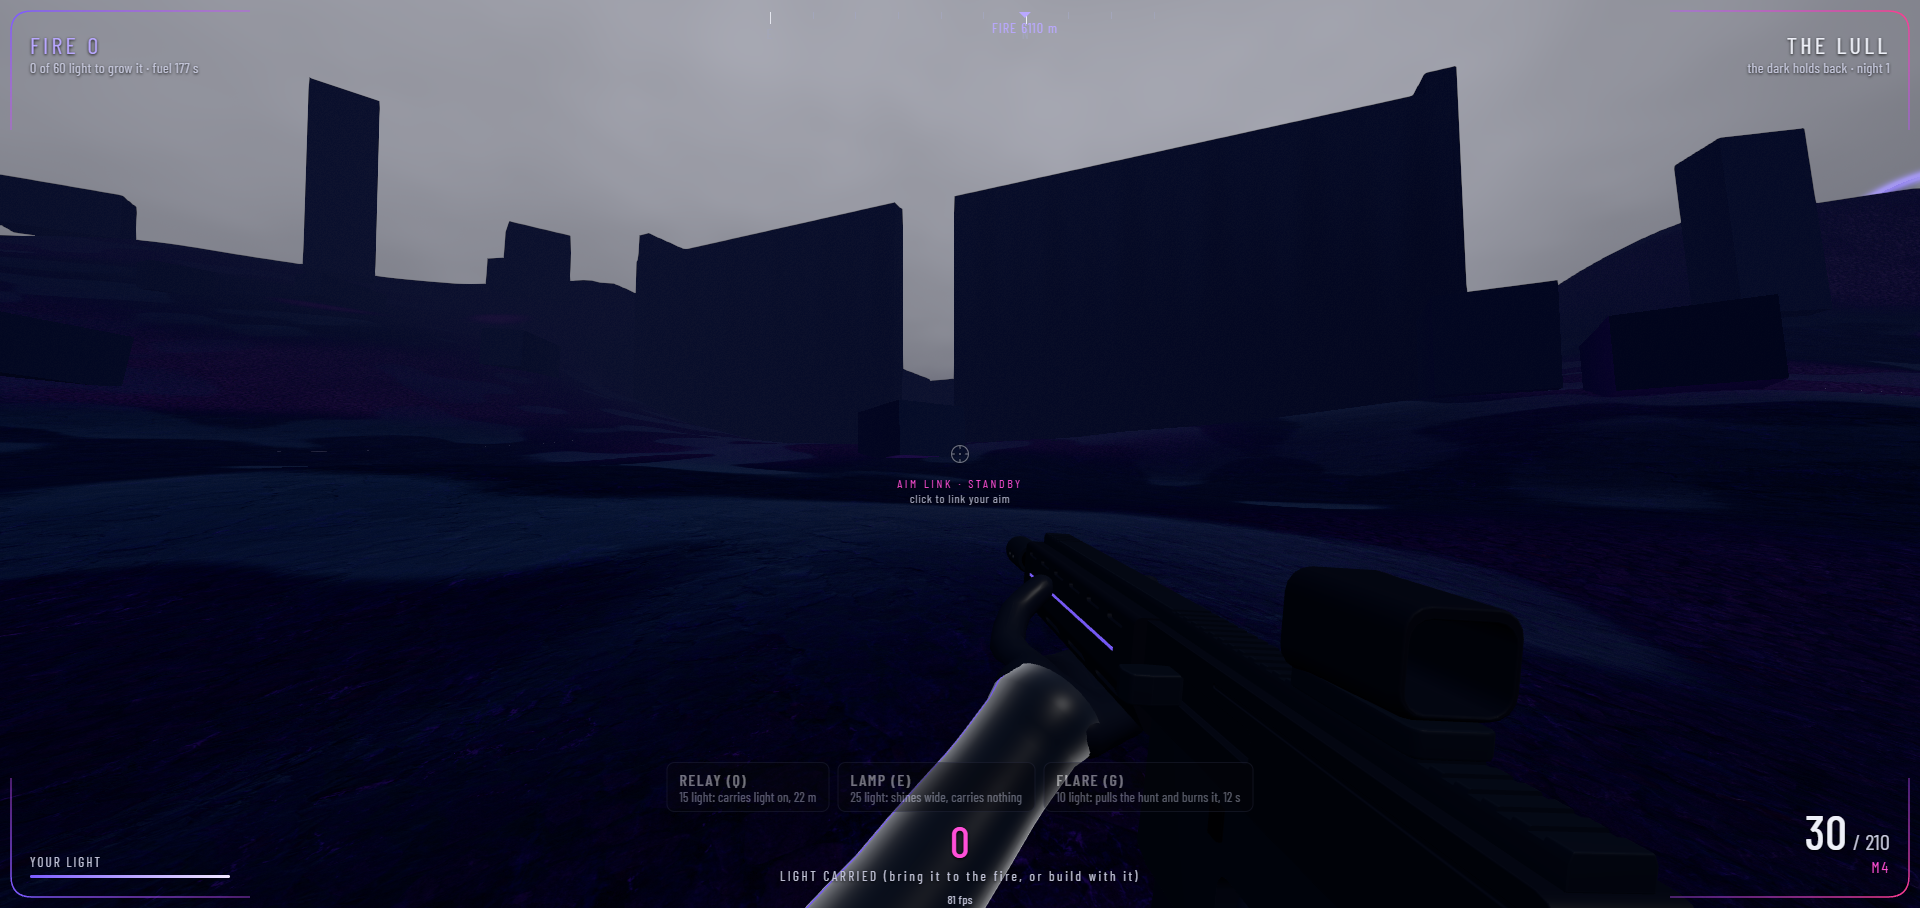
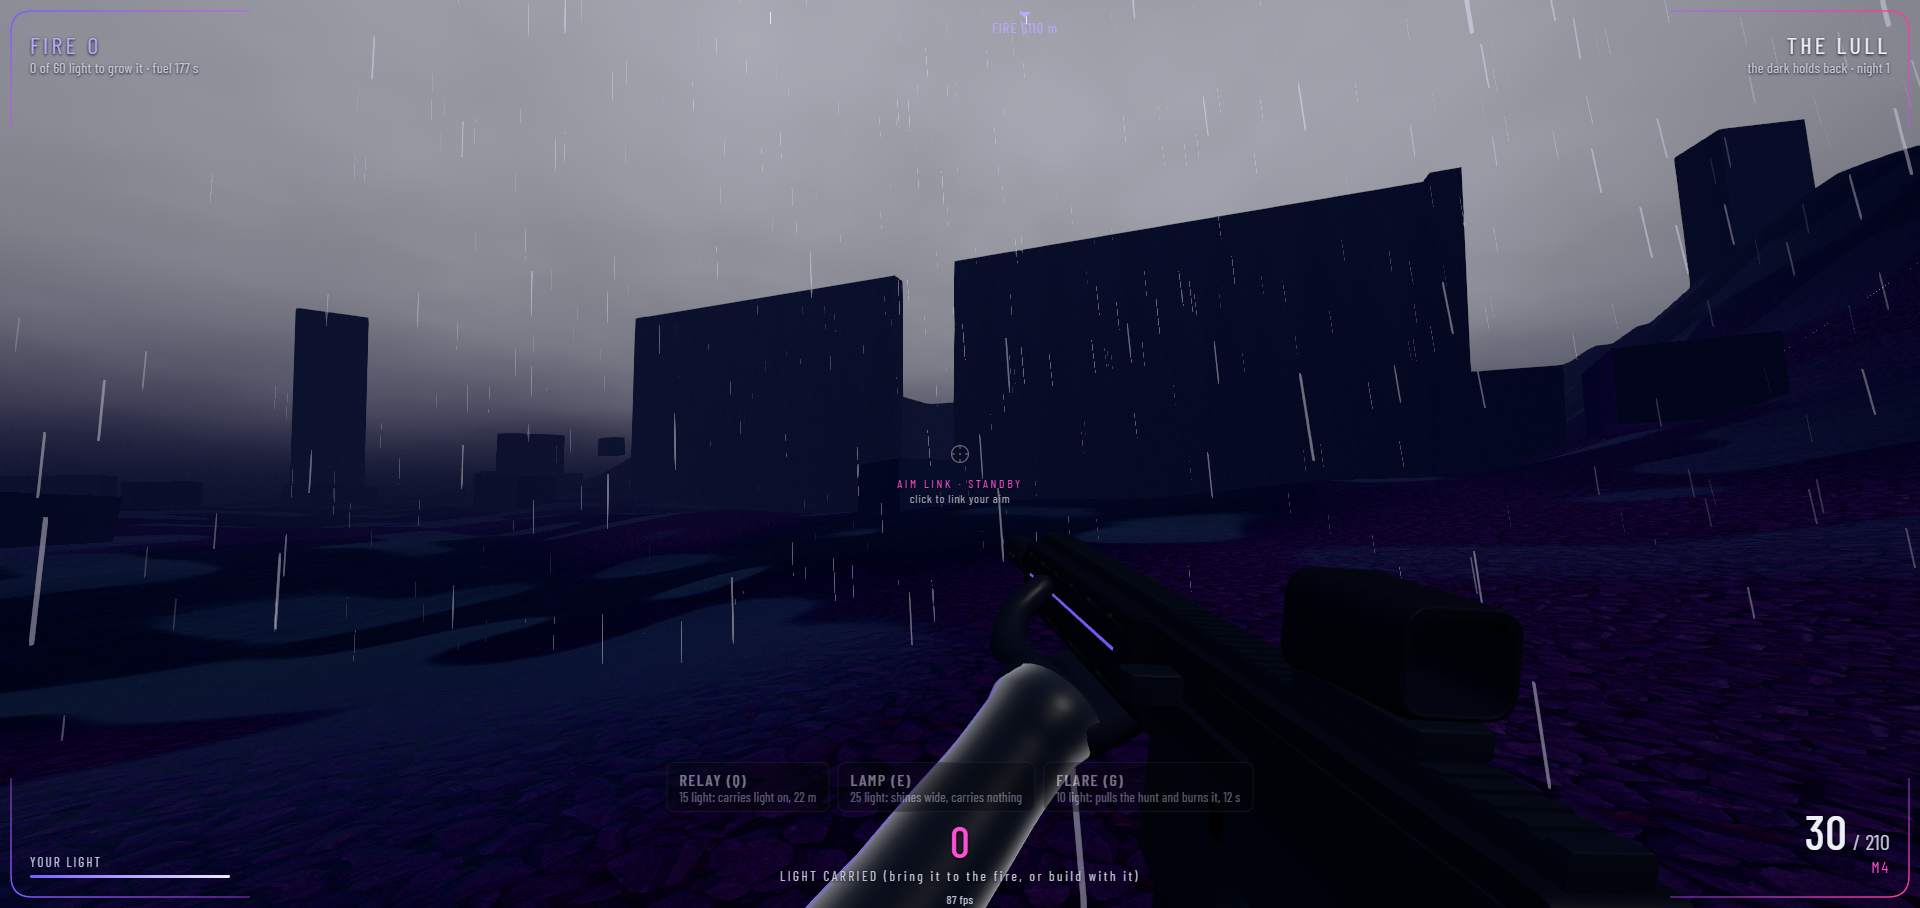
v162: Earth rain (instanced streaks moved in the vertex shader, wind slant, intensity drifts); 87 fps at 1920x908 headless, same as before

diff --git a/next/client/main.js b/next/client/main.js
@@ -1,37 +1,38 @@
 // Last Fire (the new foundation), piece 1: drawing, sound and input around the rules in core/game.js.
 // The rules run here as host; nothing in this file decides what happens, only what you see, hear and send in.
 import * as THREE from 'three';
-import * as C from '../core/game.js?v=161';
-import { Ambience } from './ambience.js?v=161';
-import { Camp, BOARD } from './camp.js?v=161';
-import { Guide } from './guide.js?v=161';
-import { buildSites } from './earthsite.js?v=161';
-import { Truck } from './truck.js?v=161';
-import { ShipView } from './shipview.js?v=161';
-import { Crew } from './crew.js?v=161';
-import { Hands } from './hands.js?v=161';
-import { FpRig } from './fprig.js?v=161';
-import { farStep } from './farsound.js?v=161';
-import { Wrist } from './wrist.js?v=161';
-import { FireCore } from './firecore.js?v=161';
+import * as C from '../core/game.js?v=162';
+import { Ambience } from './ambience.js?v=162';
+import { Camp, BOARD } from './camp.js?v=162';
+import { Guide } from './guide.js?v=162';
+import { buildSites } from './earthsite.js?v=162';
+import { Truck } from './truck.js?v=162';
+import { ShipView } from './shipview.js?v=162';
+import { Crew } from './crew.js?v=162';
+import { Hands } from './hands.js?v=162';
+import { FpRig } from './fprig.js?v=162';
+import { farStep } from './farsound.js?v=162';
+import { Wrist } from './wrist.js?v=162';
+import { FireCore } from './firecore.js?v=162';
 import { EffectComposer } from '../../vendor/jsm/postprocessing/EffectComposer.js';
 import { RenderPass } from '../../vendor/jsm/postprocessing/RenderPass.js';
 import { UnrealBloomPass } from '../../vendor/jsm/postprocessing/UnrealBloomPass.js';
 import { OutputPass } from '../../vendor/jsm/postprocessing/OutputPass.js';
 import { ShaderPass } from '../../vendor/jsm/postprocessing/ShaderPass.js';
-import { think as friendThink } from './friend.js?v=161';
-import { FriendVoice } from './friendvoice.js?v=161';
-import { crewFrom } from '../core/habits.js?v=161';
-import { HudLook } from './hudlook.js?v=161';
-import { applyLook } from './looks.js?v=161';
-import { Net, roomCode, cleanCode, CODE_LEN, MAX_PLAYERS } from './net.js?v=161';
-import { sound, GUNS } from '../../src/combat.js?v=161';
-import { FX } from '../../src/fx.js?v=161';
+import { think as friendThink } from './friend.js?v=162';
+import { FriendVoice } from './friendvoice.js?v=162';
+import { crewFrom } from '../core/habits.js?v=162';
+import { HudLook } from './hudlook.js?v=162';
+import { Rain } from './rain.js?v=162';
+import { applyLook } from './looks.js?v=162';
+import { Net, roomCode, cleanCode, CODE_LEN, MAX_PLAYERS } from './net.js?v=162';
+import { sound, GUNS } from '../../src/combat.js?v=162';
+import { FX } from '../../src/fx.js?v=162';
 import { GLTFLoader } from '../../vendor/jsm/loaders/GLTFLoader.js';
 import { clone as skClone } from '../../vendor/jsm/utils/SkeletonUtils.js';
 
 const $ = id => document.getElementById(id);
-const BUILD = 161;   // (this copy's version; ./version.json says the newest)
+const BUILD = 162;   // (this copy's version; ./version.json says the newest)
 const DEFAULTS = { sens: 1, vol: 0.8, fov: 78, adsSens: 0.65, aimToggle: true, sprintToggle: false, invertY: false, autoReload: true, cross: true };   // (his quality of life ask, 2026-10-19: aim is a toggle by default, and every one of these is a click in the pause menu)
 const SET = Object.assign({ ...DEFAULTS, name: '' }, (() => { try { return JSON.parse(localStorage.getItem('lastfire2') || '{}'); } catch (e) { return {}; } })());
 const save = () => { try { localStorage.setItem('lastfire2', JSON.stringify(SET)); } catch (e) {} };
@@ -60,7 +61,7 @@ const grade = new ShaderPass({ uniforms: { tDiffuse: { value: null }, uT: { valu
 composer.addPass(grade); composer.addPass(new OutputPass());
 const softDot = (() => { const c = document.createElement('canvas'); c.width = c.height = 64; const x = c.getContext('2d'), gr = x.createRadialGradient(32, 32, 0, 32, 32, 32); gr.addColorStop(0, 'rgba(255,255,255,1)'); gr.addColorStop(0.35, 'rgba(255,255,255,0.55)'); gr.addColorStop(1, 'rgba(255,255,255,0)'); x.fillStyle = gr; x.fillRect(0, 0, 64, 64); const t = new THREE.CanvasTexture(c); return t; })();   // (round, soft points: embers and motes were square specks)
 scene.fog = new THREE.FogExp2(0x04060c, 0.016); scene.background = new THREE.Color(0x02030a);
-const hemi = new THREE.HemisphereLight(0x5a6fb0, 0x020306, 0.09); scene.add(hemi); const FOG_NIGHT = new THREE.Color(0x04060c), FOG_EARTH_DAY = new THREE.Color(0x30333b);   // (barely any moonlight: the dark is dark, the light is yours)
+const rain = new Rain(scene); const hemi = new THREE.HemisphereLight(0x5a6fb0, 0x020306, 0.09); scene.add(hemi); const FOG_NIGHT = new THREE.Color(0x04060c), FOG_EARTH_DAY = new THREE.Color(0x30333b);   // (barely any moonlight: the dark is dark, the light is yours)
 // the sky's logic, given to everything (his rule: the sky is the reference for pretty). Research: small bright accents read on large dark
 // fields, saturation shows in the dark (Hunt 2001), rim light separates a form from a dark background. So objects stay dark and get a thin
 // violet edge, taken from the sky's own violet, fading past 60 m; the ground gets rare mineral glints, stars underfoot.
@@ -628,7 +629,7 @@ function frame(now) {
     if (e[1] === 'goes' || e[1] === 'returned' || e[1] === 'lost') { const who = String(e[2] || ''), Who = who[0] ? who[0].toUpperCase() + who.slice(1) : who;   // (the Clerk's paperwork on people who go out: dry, true, filed)
       say(e[1] === 'goes' ? `${Who} went out this morning. Form 7-B filed. Expected back tomorrow, per the form.` : e[1] === 'returned' ? `${Who} is back. The form was right, for once.` : `${Who} did not come back. Form 9-C, in triplicate. The council calls it a reassignment.`, 7); } if (e[2] === me.id && (e[1] === 'rise' || e[1] === 'stranded' || (e[1] === 'fall' && C.onEarth(me)))) settleStake(e[1] === 'rise'); if (e[1] === 'flood' && Number.isFinite(e[2])) { const x = Math.cos(e[2]), z = Math.sin(e[2]), h = ((Math.atan2(-x, -z) + Math.PI * 2) % (Math.PI * 2)) / (Math.PI * 2), dir = ['north', 'north-east', 'east', 'south-east', 'south', 'south-west', 'west', 'north-west'][Math.round(h * 8) % 8]; say(`The dark is pooling to the ${dir}, where your light is thinnest. It will pour in there.`, 5); } if (e[1] === 'bank') { sound.drop(); say(`+${Math.floor(e[3])} light to the fire.`, 2); } if (e[1] === 'level') { growFire(); sound.roundEnd(); say(`The fire grows to level ${e[2]}. Tonight the dark will answer.`, 5); } if (e[1] === 'dusk' && isHost()) duskSnap = JSON.stringify(C.saveWorld(g)); if (e[1] === 'dusk') { sound.round(); say(e[3] ? 'It stirs. The fire\'s growth woke something.' : 'It stirs.', 4); } if (e[1] === 'broke') say(`A ${e[2]} was torn down. The light past it went dark.`, 4); if (e[1] === 'allfell') say(`${lastFall ? lastFall + ' ' : ''}Everyone fell. The fire took you back; the light you carried is out there where you dropped it.`, 7); }
   drawHollow(wdt); drawGrowRing(dt); drawBreach(dt); hitStop = Math.max(0, hitStop - dt); drawBurns(dt); drawTraces(); drawFlares(); drawNetwork(now / 1000); drawMotes(); drawMarks(); fx.update(wdt); sky.material.uniforms.uT.value = now / 1000; grade.uniforms.uT.value = now / 1000; { const e = C.onEarth(me) ? 1 : 0, c = g.clock, day = e ? (c < C.DUSK_AT ? 1 : c < C.NIGHT_AT ? 1 - (c - C.DUSK_AT) / (C.NIGHT_AT - C.DUSK_AT) : c < C.DAWN_AT ? 0 : (c - C.DAWN_AT) / (1 - C.DAWN_AT)) : 0;   /* (Earth has a real day and night, his ask 2026-10-19: overcast gray by day, the stars by night; the Moon has no air, so its sky stays black) */
-    sky.position.copy(camera.position); sky.material.uniforms.uEarth.value = e; sky.material.uniforms.uDay.value = day;   /* (the dome follows you: it sat at the Moon camp, so on Earth, 6 km away, there was no sky at all, only black) */ scene.fog.color.copy(FOG_NIGHT).lerp(FOG_EARTH_DAY, day); hemi.intensity = 0.09 + 0.9 * day; hemi.color.setHex(day > 0.5 ? 0x8890a8 : 0x5a6fb0); scene.fog.density = (e ? 0.024 : 0.016) * (lookFx ? lookFx.fogK : 1); }
+    sky.position.copy(camera.position); rain.update(now / 1000, camera, e ? 0.6 + 0.4 * Math.sin(now / 47000) : 0); sky.material.uniforms.uEarth.value = e; sky.material.uniforms.uDay.value = day;   /* (the dome follows you: it sat at the Moon camp, so on Earth, 6 km away, there was no sky at all, only black) */ scene.fog.color.copy(FOG_NIGHT).lerp(FOG_EARTH_DAY, day); hemi.intensity = 0.09 + 0.9 * day; hemi.color.setHex(day > 0.5 ? 0x8890a8 : 0x5a6fb0); scene.fog.density = (e ? 0.024 : 0.016) * (lookFx ? lookFx.fogK : 1); }
   if (buildPick) { const s = buildSpot(); ghost.visible = true; ghost.position.set(s.x, g.land(s.x, s.z) + 0.05, s.z); } else ghost.visible = false;
   kick += -kick * Math.min(1, dt * 10); if ((hitT -= dt) <= 0) $('hit').className = '';
   coldHands(dt); updateShade(); scanCd = Math.max(0, scanCd - dt); me.crouch = crouch || slideT > 0;

diff --git a/next/client/rain.js b/next/client/rain.js
@@ -1,0 +1,28 @@
+// Earth's rain (EARTH.md step 2): one instanced set of thin streaks in a box that travels with you, every drop moved in the vertex shader
+// from time and its own seed (no CPU work per drop). Pale violet-white, a little slant from the wind, faint unless a light is near: the
+// streaks catch the lamps, as rain does at night. Only drawn on Earth.
+import * as THREE from 'three';
+
+export class Rain {
+  constructor(scene, n = 2600) {
+    const g = new THREE.InstancedBufferGeometry(); g.copy(new THREE.PlaneGeometry(0.012, 0.55)); g.instanceCount = n;
+    const seed = new Float32Array(n * 4); for (let i = 0; i < n; i++) seed.set([Math.random(), Math.random(), Math.random(), 0.75 + Math.random() * 0.5], i * 4);
+    g.setAttribute('seed', new THREE.InstancedBufferAttribute(seed, 4));
+    this.mat = new THREE.ShaderMaterial({ transparent: true, depthWrite: false, blending: THREE.AdditiveBlending, fog: false,
+      uniforms: { uT: { value: 0 }, uCam: { value: new THREE.Vector3() }, uAmt: { value: 0 }, uWind: { value: new THREE.Vector2(0.9, 0.3) } },
+      vertexShader: `attribute vec4 seed; uniform float uT; uniform vec3 uCam; uniform vec2 uWind; varying float vA;
+        void main() {
+          const float B = 36.0, H = 24.0; float fall = 11.0 * seed.w;   // (a raindrop falls at about 9 to 13 m/s)
+          vec3 p = vec3(seed.x * B - B * 0.5, mod(seed.z * H - uT * fall, H) - H * 0.35, seed.y * B - B * 0.5);
+          p.xz += uWind * (p.y / fall);   // (the slant the wind gives it)
+          vec3 base = vec3(floor(uCam.x / B) * B, uCam.y, floor(uCam.z / B) * B); vec3 w = p + base; w.x += B * step(w.x, uCam.x - B * 0.5) - B * step(uCam.x + B * 0.5, w.x); w.z += B * step(w.z, uCam.z - B * 0.5) - B * step(uCam.z + B * 0.5, w.z);
+          vec3 toCam = normalize(vec3(uCam.x - w.x, 0.0, uCam.z - w.z)), side = vec3(toCam.z, 0.0, -toCam.x);   // (each streak turns to face you around the up axis)
+          vec3 dir = normalize(vec3(uWind.x / fall, -1.0, uWind.y / fall));
+          w += side * position.x - dir * position.y;
+          float d = distance(w, uCam); vA = smoothstep(26.0, 6.0, d) * smoothstep(0.4, 1.5, d);
+          gl_Position = projectionMatrix * viewMatrix * vec4(w, 1.0); }`,
+      fragmentShader: `uniform float uAmt; varying float vA; void main() { gl_FragColor = vec4(vec3(0.78, 0.76, 0.95) * 0.22 * uAmt * vA, 1.0); }` });
+    this.mesh = new THREE.Mesh(g, this.mat); this.mesh.frustumCulled = false; this.mesh.visible = false; scene.add(this.mesh);
+  }
+  update(t, cam, amount) { this.mat.uniforms.uT.value = t; this.mat.uniforms.uCam.value.copy(cam.position); this.mat.uniforms.uAmt.value = amount; this.mesh.visible = amount > 0.01; }
+}

diff --git a/next/client/friend.js b/next/client/friend.js
@@ -1,7 +1,7 @@
 // The learned friend (his ask, 2026-10-19: play with someone who feels exactly like Dalton, or like you): the same faithful robot the
 // certifier uses (sim/certify.mjs), playing one person's recorded habits (core/habits.js crewFrom). It keeps the camp; it never takes the lander.
-import { hitRay, damage, heightAt, KINDS, shotBy, canGrow, grow, fired } from '../core/game.js?v=161';
-import { SECTORS, CAL } from '../core/habits.js?v=161';
+import { hitRay, damage, heightAt, KINDS, shotBy, canGrow, grow, fired } from '../core/game.js?v=162';
+import { SECTORS, CAL } from '../core/habits.js?v=162';
 const PISTOL = { dmg: 40, head: 2.5, ap: 0.1, rate: 0.35 };
 export function think(g, p, r, dt) {   // (one robot plays one person's habits: where they roam, when they bank, how they aim, the way they never look)
   const S = p.style; if (p.ember) return; const f = g.fire;

diff --git a/next/client/earthsite.js b/next/client/earthsite.js
@@ -1,8 +1,8 @@
 // The lander and the landing site (PLAN-SPACE.md step 3: gray boxes first; real models come after the robots and his hands say the trip is right).
 // The pad on the Moon and the site on Earth each get a lander; Earth gets a dead city of broken towers around the site.
 import * as THREE from 'three';
-import { PAD, EARTH, TOWERS, WALLS } from '../core/game.js?v=161';
-import { buildShip } from './shipmodel.js?v=161';
+import { PAD, EARTH, TOWERS, WALLS } from '../core/game.js?v=162';
+import { buildShip } from './shipmodel.js?v=162';
 
 function lander(scene, x, z, y) {   // (the pad, and on it the ship modeled in code: the old cylinder, cone and floating red window were gray-box stand-ins he saw up close, 2026-10-19)
   const g = new THREE.Group(), line = new THREE.MeshBasicMaterial({ color: 0xff3b5c });

diff --git a/next/client/truck.js b/next/client/truck.js
@@ -1,8 +1,8 @@
 // Parts lying out on Earth, and the truck at the bay in camp, drawn as it is really fitted. The model is made in code (truckmodel.js):
 // each part a few smooth surfaces you can read from far away, so you know what you found, and the whole truck five draw calls.
 import * as THREE from 'three';
-import { BAY, PARTS } from '../core/game.js?v=161';
-import { buildTruck, buildPart, buildRoofLamp } from './truckmodel.js?v=161';
+import { BAY, PARTS } from '../core/game.js?v=162';
+import { buildTruck, buildPart, buildRoofLamp } from './truckmodel.js?v=162';
 
 const FULL = Object.fromEntries(Object.entries(PARTS).map(([k, v]) => [k, v.n])), WRECK = { frame: 1, axle: 1, wheel: 1, cab: 1 };   // (a wreck: what is left after the scavengers)
 export class Truck {

diff --git a/next/client/shipview.js b/next/client/shipview.js
@@ -3,9 +3,9 @@
 // The model: assets/ship.glb when it exists (made by TRELLIS.2 from a concept), else the ship modeled in code (shipmodel.js).
 import * as THREE from 'three';
 import { GLTFLoader } from '../../vendor/jsm/loaders/GLTFLoader.js';
-import { SHIP, flyShip } from '../core/ship.js?v=161';
-import { shipBounds } from '../core/game.js?v=161';
-import { buildShip } from './shipmodel.js?v=161';
+import { SHIP, flyShip } from '../core/ship.js?v=162';
+import { shipBounds } from '../core/game.js?v=162';
+import { buildShip } from './shipmodel.js?v=162';
 
 export class ShipView {
   constructor(scene, land) {

diff --git a/next/index.html b/next/index.html
@@ -133,6 +133,6 @@
   <b style="font:500 20px 'Barlow Condensed';letter-spacing:.12em;color:var(--neon)">UPDATE READY</b><p id="updNote" class="note" style="margin:4px 0 10px"></p>
   <div style="display:flex;gap:8px"><button class="key" id="updYes" style="margin:0">UPDATE NOW<small>(you're right back here)</small></button><button class="key" id="updNo" style="margin:0;width:auto">LATER</button></div>
 </div></div>
-<script type="module" src="./client/main.js?v=161"></script>
+<script type="module" src="./client/main.js?v=162"></script>
 </body>
 </html>
